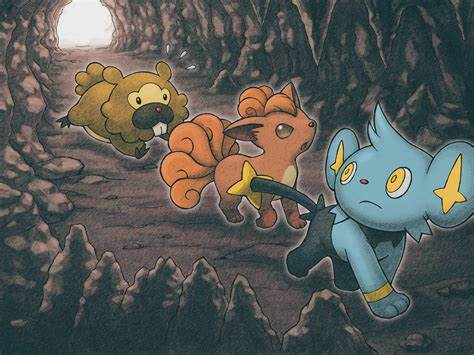
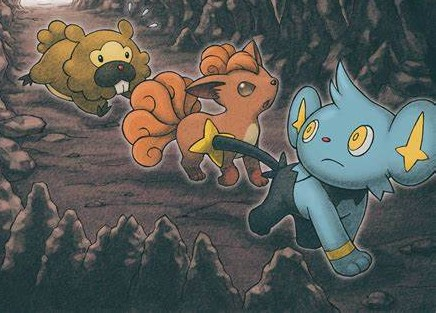
Fixed footer opacity and positioning on index page, fixed team loading so that viewing all teams wouldn't show empty teams unless you were specifically looking at your own teams, continued styling tables to have red backgrounds with specific opacity and sticky headers (not all headers are sticky and

diff --git a/src/components/PokemonInstanceManipulation/EditPokemonInstanceForm.jsx b/src/components/PokemonInstanceManipulation/EditPokemonInstanceForm.jsx
@@ -2,10 +2,11 @@ import PokemonSpriteImg from "../PokemonSpriteImg";
 import ScrollableSpeciesTable from "./ScrollableTables/ScrollableSpeciesTable";
 import ScrollableMoveTable from "./ScrollableTables/ScrollableMoveTable";
 import { useEffect, useState } from "react";
-import { Button } from "react-bootstrap";
 import ScrollableAbilityTable from "./ScrollableTables/ScrollableAbilityTable";
 import ScrollableNatureTable from "./ScrollableTables/ScrollableNatureTable";
 import CalculatedStatsTable from "../CalculatedStatsTable";
+
+import { Container, Row, Col, Button } from "react-bootstrap";
 
 export default function EditPokemonInstanceForm({ pokemonInstance, speciesList, movesList, abilityList, natureList, editPokemonFunction }) {
     const { hpIV, atkIV, defIV, spATKIV, spDEFIV, speedIV,
@@ -107,7 +108,33 @@ export default function EditPokemonInstanceForm({ pokemonInstance, speciesList, 
 
 
     return (
-        <form>
+        <Container fluid>
+
+            <Row>
+                <Col className="align-baseline">
+                    <h1><PokemonSpriteImg name={state.name} sprite={state.imgUrl} width={200}/></h1>
+                    <h1>{state.name}</h1>
+                </Col>
+                <Col className="align-baseline">
+                    <h5>Ability: {stateAbility.abilityName ?? "None"}</h5>
+                    <h5>Nature: {stateNature.natureName ?? "None"}</h5>
+                </Col>
+                <Col className="align-baseline">
+                    <h5>Selected Moves</h5>
+                        <label htmlFor="move1">Move 1: </label>
+                        <input readOnly={true} value={selectedMoves.move1Name} type="text" id="move1" onSelect={(e) => setCurrentSelectedMoveNum(1)}/>
+                        <br />
+                        <label htmlFor="move2">Move 2: </label>
+                        <input readOnly={true} value={selectedMoves.move2Name} type="text" id="move2" onSelect={(e) => setCurrentSelectedMoveNum(2)}/>
+                        <br />
+                        <label htmlFor="move3">Move 3: </label>
+                        <input readOnly={true} value={selectedMoves.move3Name} type="text" id="move3" onSelect={(e) => setCurrentSelectedMoveNum(3)}/>
+                        <br />
+                        <label htmlFor="move4">Move 4: </label>
+                        <input readOnly={true} value={selectedMoves.move4Name} type="text" id="move4" onSelect={(e) => setCurrentSelectedMoveNum(4)}/>
+                </Col>
+            </Row>
+
             <Button onClick={e => {
                 e.preventDefault();
                 editPokemonFunction(pokemonInstance.pokemonInstanceId, {
@@ -117,8 +144,7 @@ export default function EditPokemonInstanceForm({ pokemonInstance, speciesList, 
                 });
             }}>Save Changes</Button>
 
-            <h1><PokemonSpriteImg name={state.name} sprite={state.imgUrl} width={200}/></h1>
-            <h1>{state.name}</h1>
+
             <br />
 
             <CalculatedStatsTable 
@@ -135,28 +161,8 @@ export default function EditPokemonInstanceForm({ pokemonInstance, speciesList, 
             <br />
             <label htmlFor="levelEditor">Level:</label>
             <input type="number" min={1} max={100} defaultValue={state.level} placeholder="Anywhere from 0-100" onChange={(e) => setState({...state, level: +(e.target.value)})}/>
-            <h5>Ability: {stateAbility.abilityName ?? "None"}</h5>
-            <h5>Nature: {stateNature.natureName ?? "None"}</h5>
 
 
-            <>
-                <h5>Selected Moves</h5>
-                    <label htmlFor="move1">Move 1: </label>
-                    <input readOnly={true} value={selectedMoves.move1Name} type="text" id="move1" onSelect={(e) => setCurrentSelectedMoveNum(1)}/>
-                    <br />
-                    <label htmlFor="move2">Move 2: </label>
-                    <input readOnly={true} value={selectedMoves.move2Name} type="text" id="move2" onSelect={(e) => setCurrentSelectedMoveNum(2)}/>
-                    <br />
-                    <label htmlFor="move3">Move 3: </label>
-                    <input readOnly={true} value={selectedMoves.move3Name} type="text" id="move3" onSelect={(e) => setCurrentSelectedMoveNum(3)}/>
-                    <br />
-                    <label htmlFor="move4">Move 4: </label>
-                    <input readOnly={true} value={selectedMoves.move4Name} type="text" id="move4" onSelect={(e) => setCurrentSelectedMoveNum(4)}/>
-            </>
-
-
-            <br />
-            <br />
             <Button onClick={e => {
                 e.preventDefault();
                 setDisplayFields({
@@ -310,6 +316,6 @@ export default function EditPokemonInstanceForm({ pokemonInstance, speciesList, 
 
 
 
-        </form>
+        </Container>
     )
 }

diff --git a/src/pages/Shared/IndexPage.jsx b/src/pages/Shared/IndexPage.jsx
@@ -1,40 +1,43 @@
-import { useSelector } from "react-redux";
 import LoginButton from '../../components/AccountManagement/LoginButton';
 import CreateAccountButton from "../../components/AccountManagement/CreateAccountButton";
 import DeleteAccountButton from "../../components/AccountManagement/DeleteAccountButton";
-import { useLoaderData } from "react-router-dom";
 import TeamTable from "../../components/Team/TeamTable";
 import MyLinkList from "../../components/MyLinkList";
-import { Container, Row, Col } from "react-bootstrap";
+import { useSelector } from "react-redux";
+import { useLoaderData } from "react-router-dom";
+import { Container, Row, Col, Button } from "react-bootstrap";
 export default function IndexPage() {
   const email = useSelector(state => state.user.email);
+  const userId = useSelector(state => state.user.userId);
+
   const { teamSample } = useLoaderData();
   console.log(teamSample);
 
 
   return (
       <Container fluid>
-        <div className="bg-light container" style={{width: 500, border: '1px solid black'}}>
+        <div className="container">
           <Row>
             <Col xs={{offset: 4}}>
               { !email || email === ''
                 ? <>Login or create an account!</>
-                : <>Manage Your Account!</>
+                : <>Manage Your Stuff!</>
               }
             </Col>
           </Row>
           <Row>
             {email === '' || !email
               ? <>
-                  <Col xs={{ span:4, offset: 2}}>
+                  <Col xs={{}}>
                     <LoginButton />
                   </Col>
-                  <Col xs={{ span: 4, offset: 1}}>
+                  <Col>
                     <CreateAccountButton />
                   </Col>
                 </>
               : <>
                 <Col xs={{ span:4, offset: 4}}>
+                  <Button href={`/teams/users/${userId}`}>My Teams</Button>
                   <DeleteAccountButton />
                 </Col> 
               </>
@@ -53,7 +56,6 @@ export default function IndexPage() {
               <TeamTable teamList={[teamSample]}/>
             </Col>
         </Row>
-
 
         <MyLinkList />
       </Container>

diff --git a/src/components/MyLinkList.jsx b/src/components/MyLinkList.jsx
@@ -4,20 +4,24 @@ import { ModalFooter } from "react-bootstrap"
 
 export default function MyLinkList() {
     return (
-        <ModalFooter class="footer fixed-bottom py-3 bg-light">
-            <p>Want to check out my other work? Here are some links!</p>
+        <ModalFooter class="footer fixed-bottom py-3 bg-light" style={{opacity: 0.5}}>
             <Row>
-                <Col>
+                <Col align='center'>
+                    Want to check out my other work? Here are some links!
+                </Col>
+            </Row>
+            <Row>
+                <Col align='center'>
                     <NavLink style={{ color: 'blue', textDecoration: 'underline'}}  href={'https://dev.azure.com/spetersonwi/'}>
                         Azure DevOps
                     </NavLink>                
                 </Col>
-                <Col>
+                <Col align='center'>
                     <NavLink style={{ color: 'blue', textDecoration: 'underline' }} href={'https://github.com/SpencerPtrson'}>
                         GitHub
                     </NavLink>
                 </Col>
-                <Col>
+                <Col align='center'>
                     <NavLink style={{ color: 'blue', textDecoration: 'underline' }} href={'https://www.linkedin.com/in/spencer-peterson-9a81b6198/'}>
                         LinkedIn
                     </NavLink>

diff --git a/src/App.jsx b/src/App.jsx
@@ -31,7 +31,8 @@ export default function App() {
           element={<IndexPage />}
           loader={ async() => {
             const res = await axios.get('/api/teams');
-            return { teamSample: sample(res.data) }
+            const teams = res.data.filter(team => team.pokemoninstances.length > 0);
+            return { teamSample: sample(teams) }
           }}
         />
 
@@ -140,7 +141,8 @@ export default function App() {
               loader={ async({ params }) => {
                 console.log("Attempting to get teams");
                 const res = await axios.get(`/api/teams`)
-                return { teams: res.data };
+                const teams = res.data.filter(team => team.pokemoninstances.length > 0);
+                return { teams: teams };
               }}
             />
 
@@ -168,6 +170,7 @@ export default function App() {
             />
 
         // #endregion teams
+
       </Route>
     )
   );

diff --git a/src/pages/Shared/PageContent.jsx b/src/pages/Shared/PageContent.jsx
@@ -25,21 +25,12 @@ export default function PageContent() {
   }, []);
   
   return (
-        <div className="bg-image" 
-          style={{ minHeight: '100vh', 
-                   backgroundImage: `url('https://www.rpgfan.com/wp-content/uploads/2020/10/Pokemon-Mystery-Dungeon-Explorers-of-Sky-Artwork-003.jpg')`,
-                   backgroundRepeat: 'no-repeat',
-                   backgroundSize: '100%',
-                   backgroundAttachment: 'fixed'
-        }}>
-      <Container fluid style={{padding: 0}}>
-
-        <MainNav email={email}/>
-        <Outlet />
-
-
-      </Container>
-        </div>
+      <div className="bg" >
+        <Container fluid style={{padding: 0}}>
+          <MainNav email={email}/>
+          <Outlet />
+        </Container>
+      </div>
     );
   }
   

diff --git a/css/styles.css b/css/styles.css
@@ -3,7 +3,7 @@
 }
 
 .speciesScrollable {
-  max-height: 600px;
+  max-height: 700px;
 }
 
 .teamScrollable {
@@ -11,6 +11,27 @@
 }
 
 table tr td, table tr th {
-  background-color: rgba(216, 207, 207, 0.253) !important;
-  color: white
+  background-color: rgba(129, 29, 29, 0.623) !important;
+  color: white !important
+}
+
+thead {
+  position: sticky !important;
+  top: 0px;
+  color: white !important;
+  background-color: black !important;
+}
+
+.bg {
+  min-height: 100vh;
+  background-image: url('https://www.rpgfan.com/wp-content/uploads/2020/10/Pokemon-Mystery-Dungeon-Explorers-of-Sky-Artwork-003.jpg');
+  background-repeat: no-repeat;
+  background-size: 100%;
+  background-attachment: fixed;
+}
+
+@media (max-width: 1000px) {
+  .bg {
+    background-size: 1000px 800px;
+  }
 }

diff --git a/src/components/PokemonMoves/MoveTable.jsx b/src/components/PokemonMoves/MoveTable.jsx
@@ -8,10 +8,10 @@ export default function MoveTable({ moves }) {
     console.log(moves);
 
     return (
-        <>
+        <div className='table-responsive speciesScrollable' style={{border: '1px solid black'}}>
             {
                 moveRows && moves.length > 0
-                ? <h5>Available Moves</h5>
+                ? <></>
                 : <h5>No Moves Listed</h5>
             }
             <table className="table scrollable">
@@ -32,6 +32,6 @@ export default function MoveTable({ moves }) {
                     }
                 </tbody>
             </table>
-        </>
+        </div>
     );
   }

diff --git a/src/pages/PokemonMoves/AllPokemonMovesPage.jsx b/src/pages/PokemonMoves/AllPokemonMovesPage.jsx
@@ -1,12 +1,12 @@
 import { useLoaderData } from "react-router-dom";
 import MoveTable from "../../components/PokemonMoves/MoveTable";
+import ScrollableMoveTable from "../../components/PokemonInstanceManipulation/ScrollableTables/ScrollableMoveTable";
 
 export default function AllPokemonMovesPage() {
   const { moves } = useLoaderData();
 
   return (
     <>
-      <h1>All Moves</h1>
       <MoveTable moves={moves}/>
     </>
   );

diff --git a/src/components/PokemonInstanceManipulation/ScrollableTables/ScrollableSpeciesTable.jsx b/src/components/PokemonInstanceManipulation/ScrollableTables/ScrollableSpeciesTable.jsx
@@ -6,7 +6,7 @@ export default function ScrollableSpeciesTable({ speciesList, state, setStateVal
     });
 
     return (
-        <div className='table-responsive scrollable' style={{border: '1px solid black'}}>
+        <div className='table-responsive speciesScrollable' style={{border: '1px solid black'}}>
             <table className='table'>
                 <thead>
                 <tr>

diff --git a/src/pages/PokemonInstances/AllPokemonInstancesPage.jsx b/src/pages/PokemonInstances/AllPokemonInstancesPage.jsx
@@ -6,7 +6,6 @@ export default function AllPokemonInstancesPage() {
   console.log("All Pokemon Instances Page - pokemoninstances data:", pokemoninstances);
   return (
     <>
-      <h1>Community Sets:</h1>
       <PokemonInstanceTable instanceList={pokemoninstances} isTeamView={false}/>
     </>
   );

diff --git a/src/pages/PokemonSpecies/AllPokemonSpeciesPage.jsx b/src/pages/PokemonSpecies/AllPokemonSpeciesPage.jsx
@@ -7,7 +7,6 @@ export default function AllPokemonSpeciesPage() {
 
   return (
     <>
-      <h1>Pokemon Species Table</h1>
       <ScrollableSpeciesTable speciesList={pokemonspecies} />
     </>
   );
